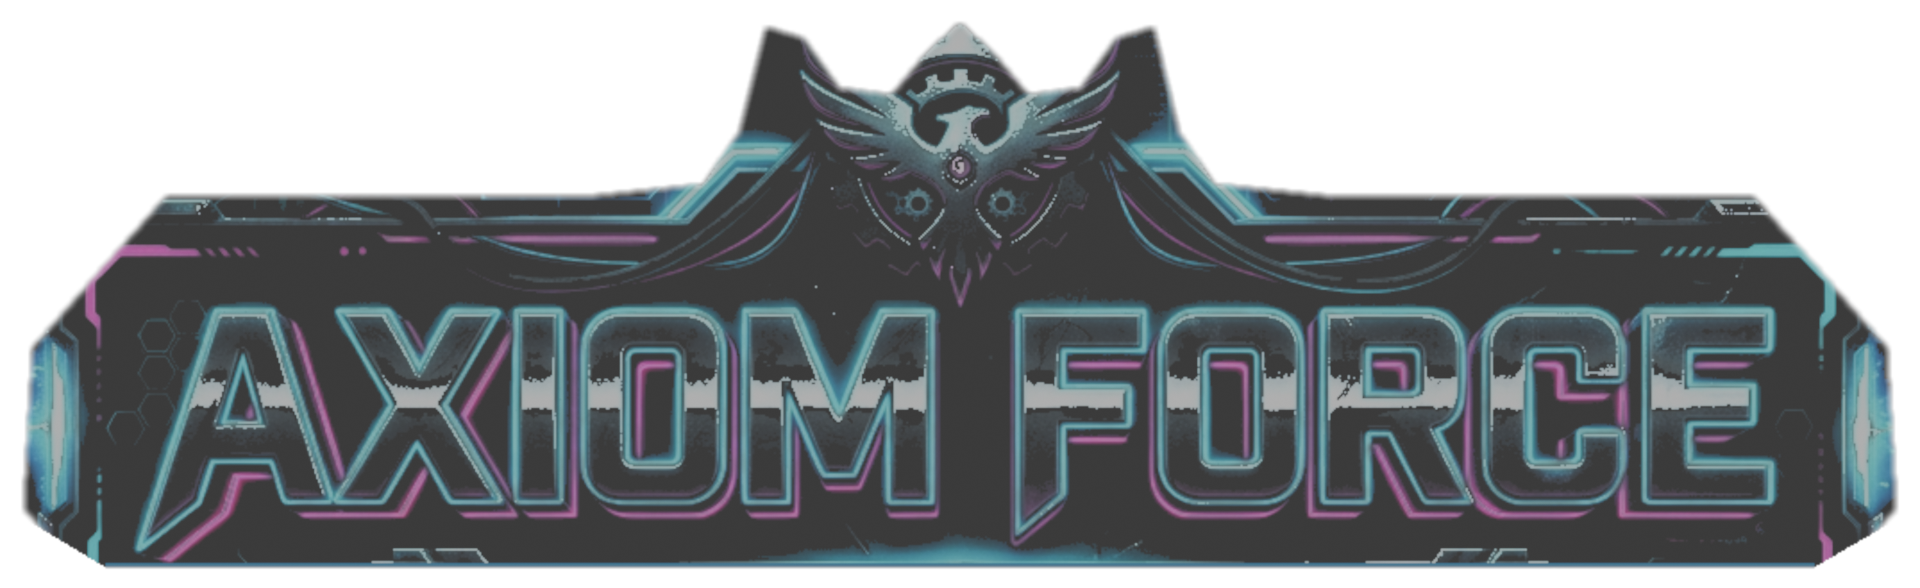
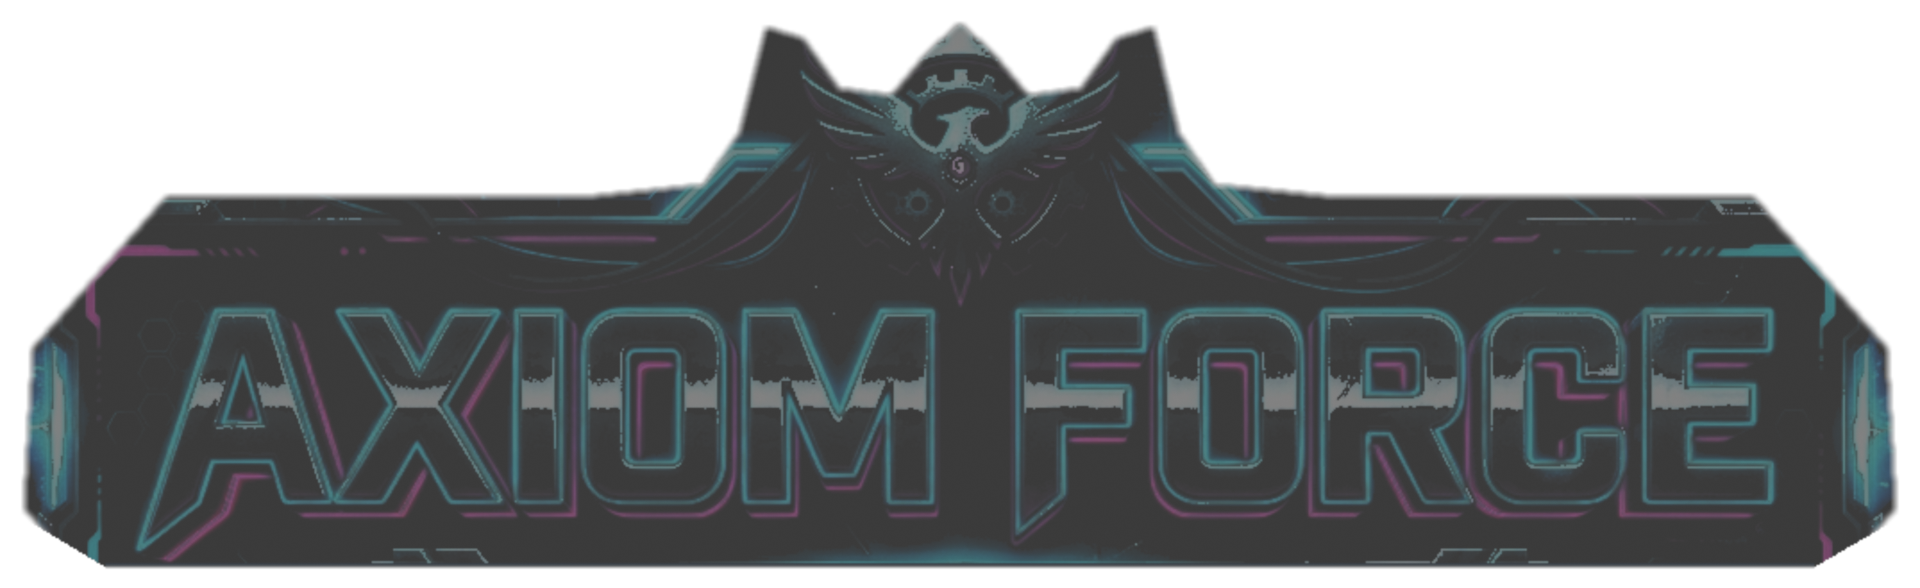
Darken 2D title to dark gunmetal and obsidian in Blender

diff --git a/render_title_2d.py b/render_title_2d.py
@@ -51,25 +51,25 @@ for x in range(w):
     pix_roughness[:by, x, 3] = 0.0
     pix_normal[:by, x, 3] = 0.0
 
-    # For the center span (75 to 1030), render a clean glowing cyan neon laser line with rich cyber cyan
+    # For the center span (75 to 1030), render a clean glowing deep cyan laser line
     if 75 <= x <= 1030:
         # Core row (by + 1)
-        pix_albedo[by + 1, x, :3] = [0.12, 0.58, 0.76]
+        pix_albedo[by + 1, x, :3] = [0.04, 0.35, 0.50]
         pix_albedo[by + 1, x, 3] = 1.0
-        pix_emission[by + 1, x, :3] = [0.08, 0.52, 0.72]
+        pix_emission[by + 1, x, :3] = [0.02, 0.30, 0.45]
         pix_emission[by + 1, x, 3] = 1.0
 
         # Rim row (by)
-        pix_albedo[by, x, :3] = [0.0, 0.42, 0.60]
+        pix_albedo[by, x, :3] = [0.0, 0.25, 0.38]
         pix_albedo[by, x, 3] = 0.85
-        pix_emission[by, x, :3] = [0.0, 0.42, 0.60]
+        pix_emission[by, x, :3] = [0.0, 0.25, 0.38]
         pix_emission[by, x, 3] = 0.85
 
         # Anti-aliased outer edge (by - 1)
         if by > 0:
-            pix_albedo[by - 1, x, :3] = [0.0, 0.28, 0.45]
+            pix_albedo[by - 1, x, :3] = [0.0, 0.15, 0.25]
             pix_albedo[by - 1, x, 3] = 0.35
-            pix_emission[by - 1, x, :3] = [0.0, 0.28, 0.45]
+            pix_emission[by - 1, x, :3] = [0.0, 0.15, 0.25]
             pix_emission[by - 1, x, 3] = 0.35
 
 # Tightly crop to Axiom Force bounds with clean padding
@@ -84,10 +84,10 @@ crop_metallic = pix_metallic[min_y : max_y + 1, min_x : max_x + 1]
 crop_roughness = pix_roughness[min_y : max_y + 1, min_x : max_x + 1]
 crop_normal = pix_normal[min_y : max_y + 1, min_x : max_x + 1]
 
-# Apply darker steel tone grading: 35% reduction (factor 0.65)
-# This turns the bright white letters into dark titanium steel while keeping full legibility
-crop_albedo[..., :3] = crop_albedo[..., :3] * 0.65
-crop_emission[..., :3] = crop_emission[..., :3] * 0.60
+# Apply steep dark stealth tone curve: gamma 1.7 + multiplier 0.42
+# Converts bright white/chrome letters to dark gunmetal steel and chassis plate to deep obsidian
+crop_albedo[..., :3] = (np.clip(crop_albedo[..., :3], 0.0, 1.0) ** 1.7) * 0.42
+crop_emission[..., :3] = (np.clip(crop_emission[..., :3], 0.0, 1.0) ** 1.3) * 0.45
 
 def create_bpy_image(name, data_rgba, is_non_color=False):
     img = bpy.data.images.new(name, width=crop_w, height=crop_h, alpha=True)
@@ -136,11 +136,11 @@ node_norm_map.inputs['Strength'].default_value = 2.4
 links.new(tex_normal.outputs['Color'], node_norm_map.inputs['Color'])
 links.new(node_norm_map.outputs['Normal'], node_bsdf.inputs['Normal'])
 
-# Emission (rich, non-blown-out glow)
+# Emission (rich, deep cybernetic glow without overblown glare)
 tex_emission = nodes.new(type='ShaderNodeTexImage')
 tex_emission.image = img_emission
 links.new(tex_emission.outputs['Color'], node_bsdf.inputs['Emission Color'])
-node_bsdf.inputs['Emission Strength'].default_value = 1.6
+node_bsdf.inputs['Emission Strength'].default_value = 1.0
 
 links.new(node_bsdf.outputs['BSDF'], node_output.inputs['Surface'])
 
@@ -166,30 +166,32 @@ if not mesh.uv_layers:
     mesh.uv_layers.new(name="UVMap")
 
 # ─── 5. Darker Cybernetic Lighting with Balanced Highlights ───────────────────
+# Softened key sun light to preserve the dark stealth gunmetal tones
 light_key = bpy.data.lights.new(name="LightKey", type='SUN')
-light_key.energy = 1.8
-light_key.color = (0.80, 0.86, 0.94)
+light_key.energy = 0.6
+light_key.color = (0.75, 0.82, 0.90)
 obj_key = bpy.data.objects.new(name="LightKeyObj", object_data=light_key)
 obj_key.rotation_euler = (math.radians(35), math.radians(-25), 0)
 bpy.context.collection.objects.link(obj_key)
 
 light_cyan = bpy.data.lights.new(name="LightCyan", type='SUN')
-light_cyan.energy = 1.3
-light_cyan.color = (0.0, 0.55, 0.75)
+light_cyan.energy = 0.4
+light_cyan.color = (0.0, 0.45, 0.65)
 obj_cyan = bpy.data.objects.new(name="LightCyanObj", object_data=light_cyan)
 obj_cyan.rotation_euler = (math.radians(-35), math.radians(40), 0)
 bpy.context.collection.objects.link(obj_cyan)
 
 light_mag = bpy.data.lights.new(name="LightMag", type='SUN')
-light_mag.energy = 1.1
-light_mag.color = (0.65, 0.0, 0.35)
+light_mag.energy = 0.35
+light_mag.color = (0.55, 0.0, 0.30)
 obj_mag = bpy.data.objects.new(name="LightMagObj", object_data=light_mag)
 obj_mag.rotation_euler = (math.radians(25), math.radians(50), 0)
 bpy.context.collection.objects.link(obj_mag)
 
+# Subtle point light for bevel definition without glare
 light_point = bpy.data.lights.new(name="LightGlint", type='POINT')
-light_point.energy = 30.0
-light_point.color = (0.68, 0.82, 0.94)
+light_point.energy = 5.0
+light_point.color = (0.60, 0.75, 0.88)
 obj_point = bpy.data.objects.new(name="LightGlintObj", object_data=light_point)
 obj_point.location = (0.1, -0.05, 1.4)
 bpy.context.collection.objects.link(obj_point)
@@ -219,6 +221,6 @@ scene.render.image_settings.color_depth = '8'
 output_file = os.path.join(img_dir, "axiom_force_title_2d.png")
 scene.render.filepath = output_file
 
-print(f"Rendering Darker 2D Axiom Force Title ({scene.render.resolution_x}x{scene.render.resolution_y}) to {output_file}...")
+print(f"Rendering Dark Gunmetal 2D Axiom Force Title ({scene.render.resolution_x}x{scene.render.resolution_y}) to {output_file}...")
 bpy.ops.render.render(write_still=True)
-print("Darker Axiom Force 2D Title Render Complete!")
+print("Dark Gunmetal Axiom Force 2D Title Render Complete!")
